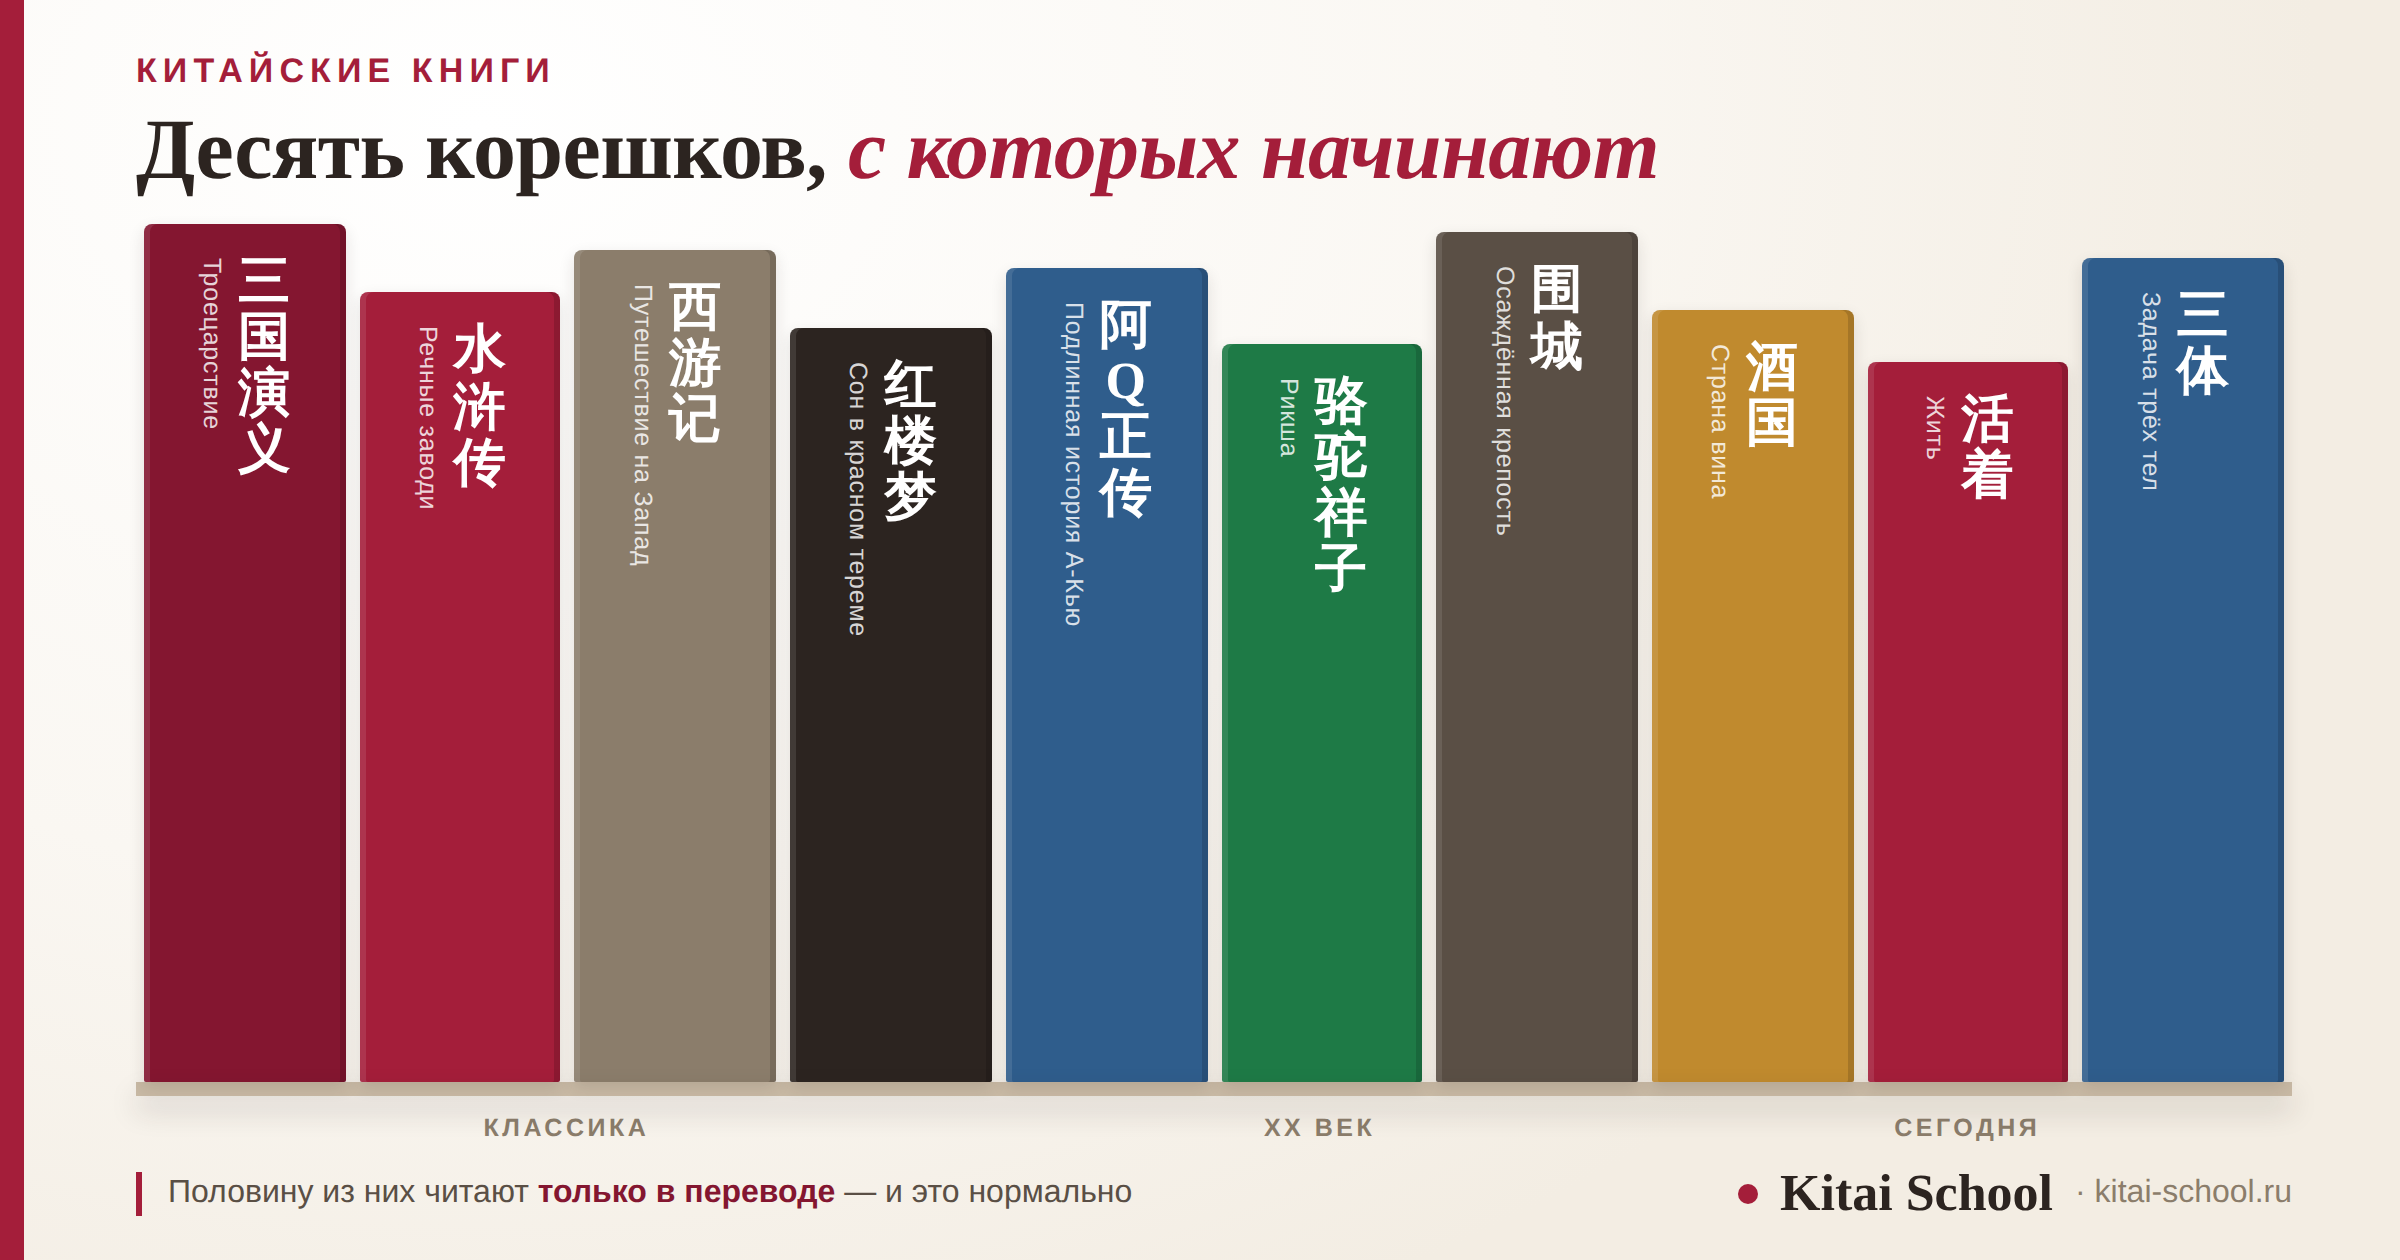
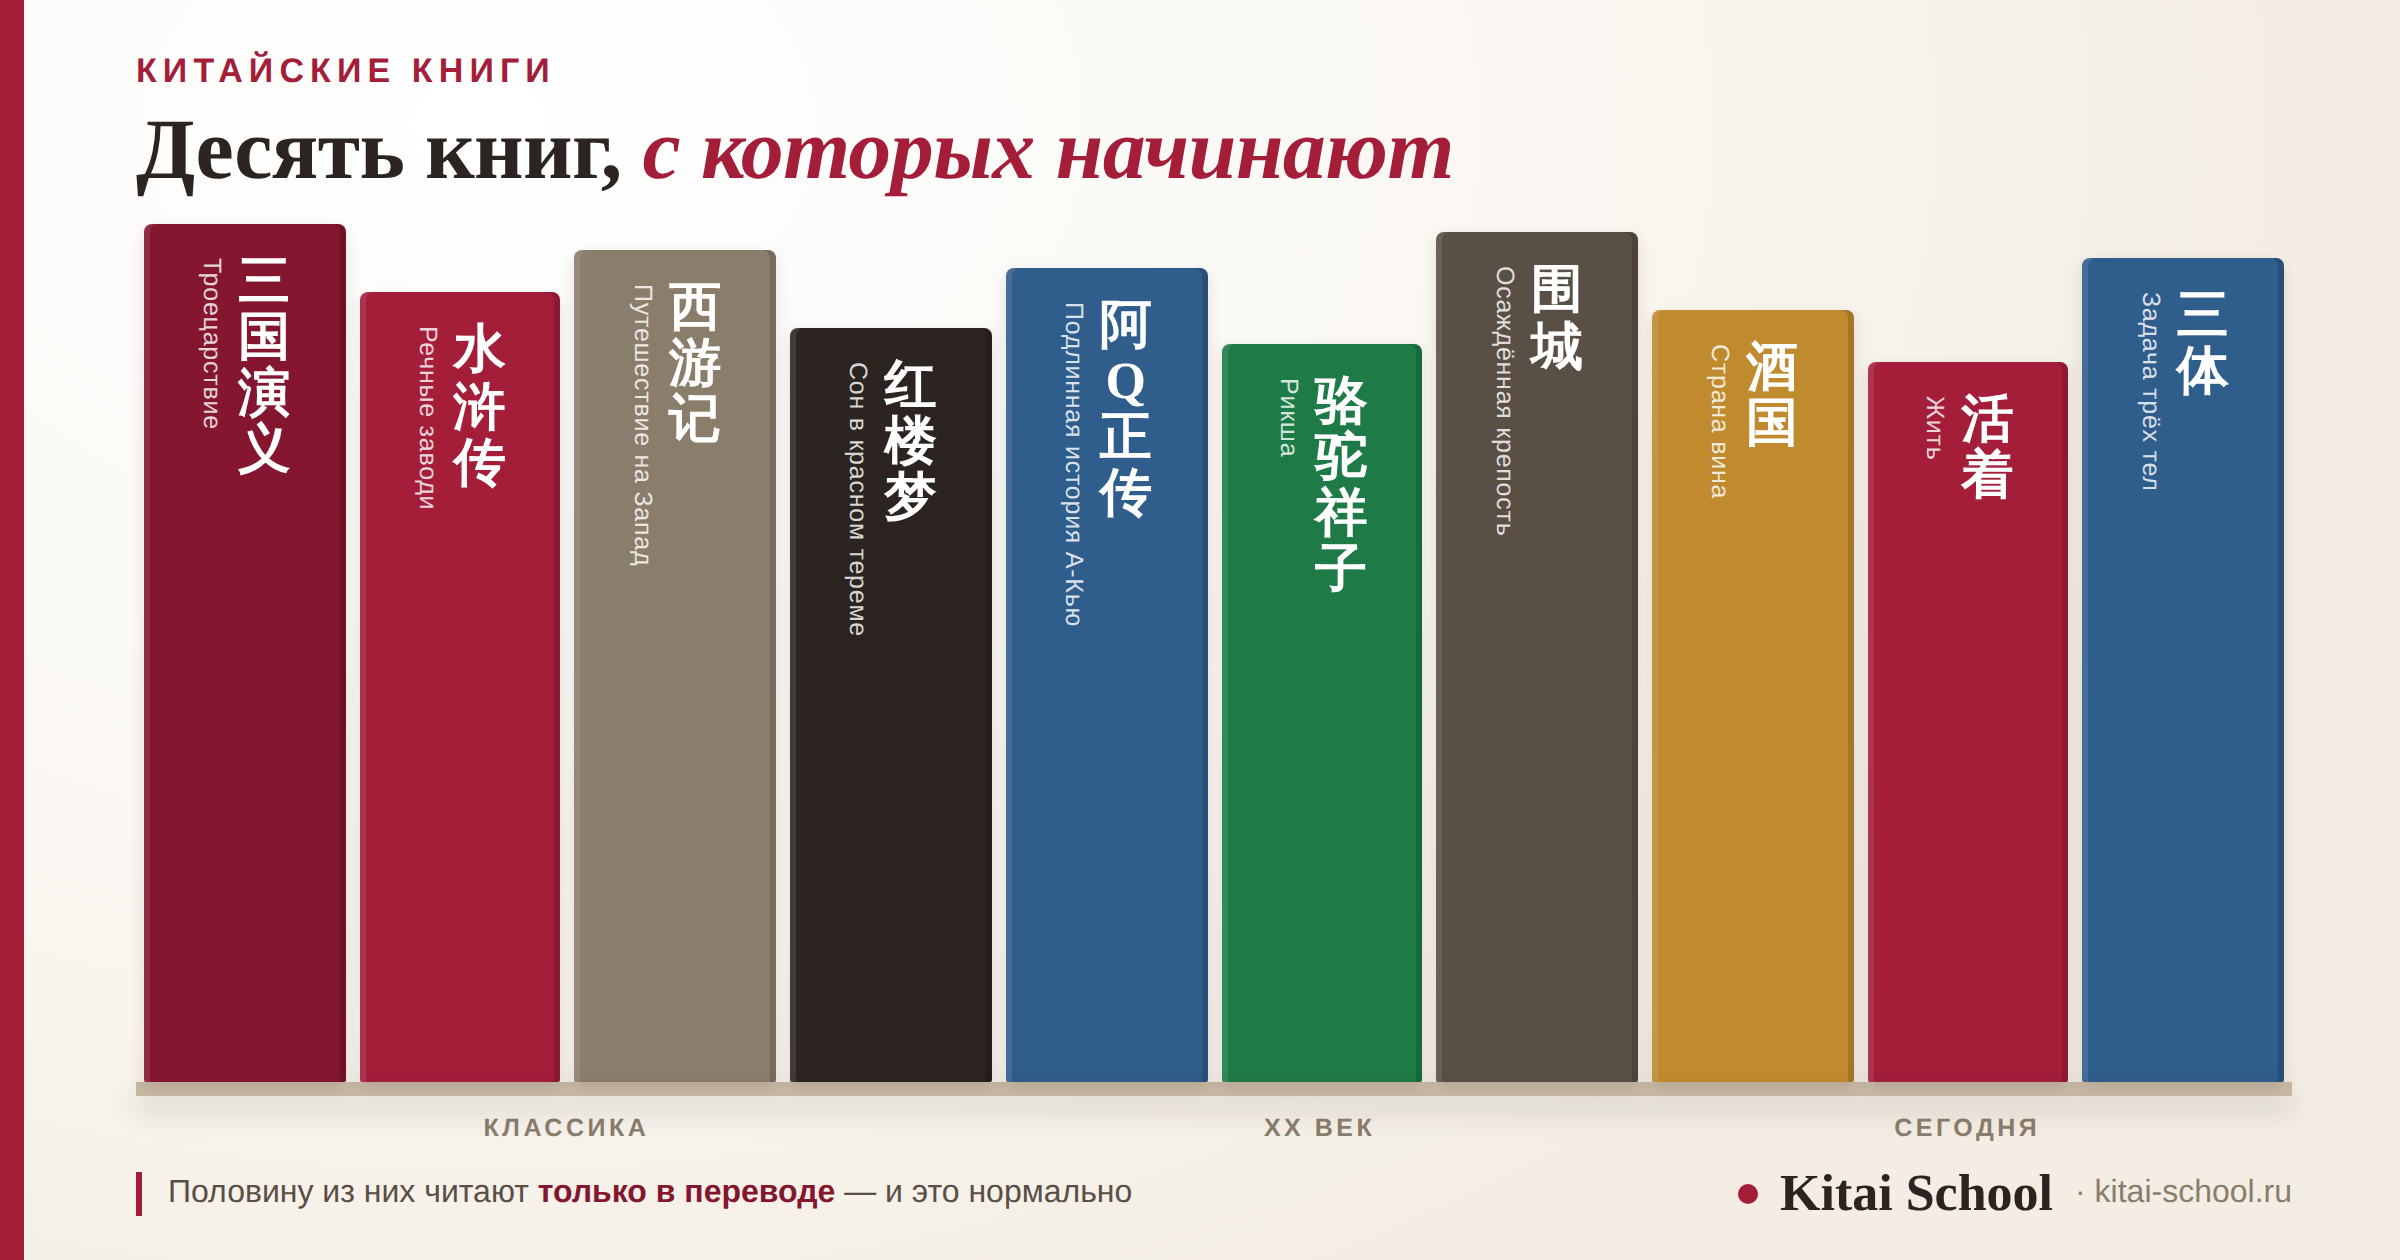
«Корешки» заменены на «книги» в статье о китайских книгах
На обложке заголовок теперь «Десять книг, с которых начинают»; в alt
hero-картинки слово «корешки» тоже заменено на «книги». Объём и позиции
блоков не изменились: 41 591 знак, инфографика 27,4 %, «Из личного
опыта» 37,8 %.

Claude-Session: https://claude.ai/code/session_017dS7Wuw6MNB5fnZSr6hVh2

Changed region(s): [[0.1875, 0.0929, 0.6875, 0.1548]]

diff --git a/content/blog/luchshie-kitayskie-knigi.html b/content/blog/luchshie-kitayskie-knigi.html
@@ -218,7 +218,7 @@
   </div>
 </div>
 
-<figure class="ks-hero"><img src="assets/luchshie-kitayskie-knigi.png" alt="Книжная полка с десятью корешками: на каждом название по-китайски и по-русски, корешки сгруппированы по трём эпохам — классика, двадцатый век и сегодняшний день" width="1200" height="630"></figure>
+<figure class="ks-hero"><img src="assets/luchshie-kitayskie-knigi.png" alt="Книжная полка с десятью книгами: на каждой название по-китайски и по-русски, книги сгруппированы по трём эпохам — классика, двадцатый век и сегодняшний день" width="1200" height="630"></figure>
 
 <p class="passport">Подборок китайских книг в сети много, и все они отвечают на один вопрос: <b>что читать в переводе</b>. Мы школа языка, поэтому отвечаем ещё и на второй — <b>что из этого реально читать на китайском и с какого уровня</b>. Ниже десять книг: четыре классических романа, три имени двадцатого века и три современных автора, у каждой — пометка, в переводе её брать или можно в оригинале.</p>
 
